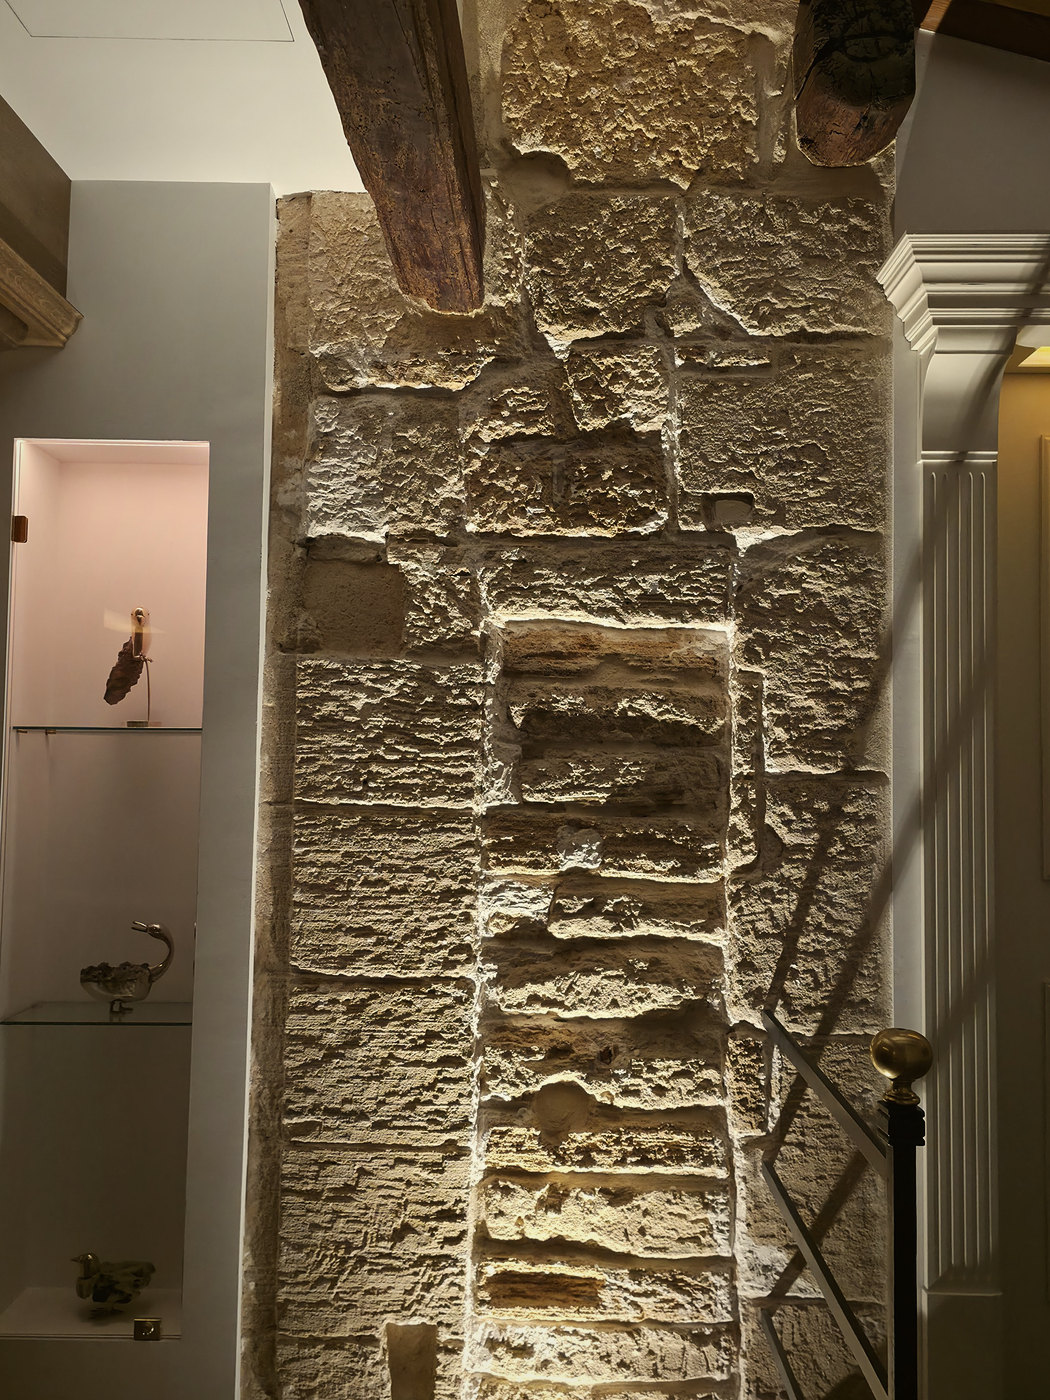
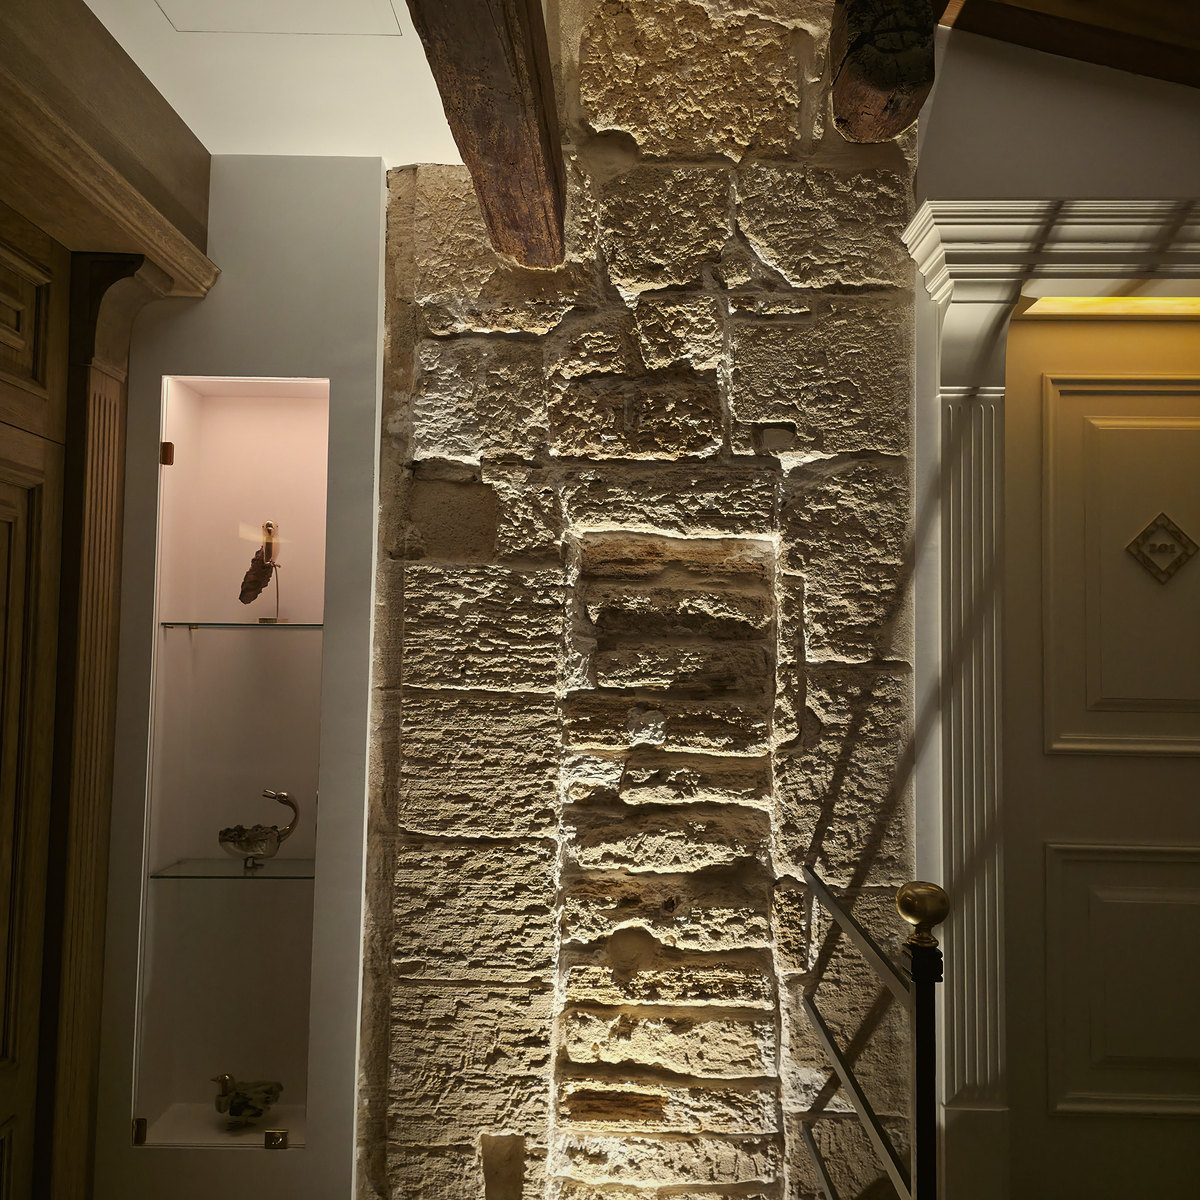
style: The House detail rows — all photos square 1:1 (PC and mobile), re-exported full-frame

diff --git a/the-house.html b/the-house.html
@@ -12,7 +12,7 @@
 <link rel="preconnect" href="https://fonts.googleapis.com">
 <link rel="preconnect" href="https://fonts.gstatic.com" crossorigin>
 <link rel="stylesheet" href="https://fonts.googleapis.com/css2?family=Cormorant+Garamond:wght@500;600;700&family=Karma:wght@300;400;500;600;700&family=Montserrat:wght@400;500;600&display=swap">
-<link rel="stylesheet" href="css/styles.css?v=72">
+<link rel="stylesheet" href="css/styles.css?v=73">
 <link rel="stylesheet" href="css/concierge.css?v=3">
 </head>
 <body>
@@ -57,11 +57,11 @@
     <a class="link-arrow" href="#details">Discover more →</a>
   </div>
   <div class="hx-media hist-grid hist-5">
-    <div class="imgframe"><img loading="lazy" decoding="async" src="img/house-hist-rosettes.jpg?v=e4f9986d" alt="A row of carved stone rosettes"></div>
-    <div class="hg-mid"><div class="imgframe"><img loading="lazy" decoding="async" src="img/house-hist-castle.jpg?v=f638ac41" alt="A castle carved in stone"></div><p class="hg-cap">Preserved,<br>not reinvented.</p></div>
-    <div class="imgframe"><img loading="lazy" decoding="async" src="img/house-hist-arms.jpg?v=2ce2c9b7" alt="A carved coat of arms"></div>
-    <div class="imgframe"><img loading="lazy" decoding="async" src="img/house-hist-mares.jpg?v=daa0409b" alt="An old marés stone wall"></div>
-    <div class="imgframe"><img loading="lazy" decoding="async" src="img/house-hist-bicycle.jpg?v=69578fdb" alt="An old wooden chest beneath a painting"></div>
+    <div class="imgframe"><img loading="lazy" decoding="async" src="img/house-hist-rosettes.jpg?v=1cde7bdf" alt="A row of carved stone rosettes"></div>
+    <div class="hg-mid"><div class="imgframe"><img loading="lazy" decoding="async" src="img/house-hist-castle.jpg?v=b9ef1c1e" alt="A castle carved in stone"></div><p class="hg-cap">Preserved,<br>not reinvented.</p></div>
+    <div class="imgframe"><img loading="lazy" decoding="async" src="img/house-hist-arms.jpg?v=ce755572" alt="A carved coat of arms"></div>
+    <div class="imgframe"><img loading="lazy" decoding="async" src="img/house-hist-mares.jpg?v=2b9765b8" alt="An old marés stone wall"></div>
+    <div class="imgframe"><img loading="lazy" decoding="async" src="img/house-hist-bicycle.jpg?v=7b85366e" alt="An old wooden chest beneath a painting"></div>
   </div>
 </section>
 
@@ -75,11 +75,11 @@
     <a class="link-arrow" href="#details">Discover the details →</a>
   </div>
   <div class="hx-media hx-grid g5">
-    <div class="item"><div class="imgframe "><img loading="lazy" decoding="async" src="img/house-material-santanyi.jpg?v=79acc08d" alt="A carved Santanyí stone capital"></div><div class="cap">Santanyí Stone</div><div class="ct">Carved into the house.</div></div>
-    <div class="item"><div class="imgframe "><img loading="lazy" decoding="async" src="img/house-material-stair.jpg?v=3d005684" alt="The staircase seen from above"></div><div class="cap">The Staircase</div><div class="ct">The way upstairs.</div></div>
-    <div class="item"><div class="imgframe "><img loading="lazy" decoding="async" src="img/house-material-mares.jpg?v=75574fb0" alt="A marés stone wall"></div><div class="cap">Marés</div><div class="ct">The texture of Mallorca.</div></div>
-    <div class="item"><div class="imgframe "><img loading="lazy" decoding="async" src="img/house-material-gilded.jpg?v=1944d32e" alt="A gilded mirror frame"></div><div class="cap">Gilded Wood</div><div class="ct">Time, preserved.</div></div>
-    <div class="item"><div class="imgframe "><img loading="lazy" decoding="async" src="img/house-material-carving.jpg?v=4286e8b1" alt="Carved stone flowers"></div><div class="cap">Stone Carving</div><div class="ct">Patterns with a past.</div></div>
+    <div class="item"><div class="imgframe "><img loading="lazy" decoding="async" src="img/house-material-santanyi.jpg?v=c05bd51e" alt="A carved Santanyí stone capital"></div><div class="cap">Santanyí Stone</div><div class="ct">Carved into the house.</div></div>
+    <div class="item"><div class="imgframe "><img loading="lazy" decoding="async" src="img/house-material-stair.jpg?v=52209028" alt="The staircase seen from above"></div><div class="cap">The Staircase</div><div class="ct">The way upstairs.</div></div>
+    <div class="item"><div class="imgframe "><img loading="lazy" decoding="async" src="img/house-material-mares.jpg?v=4ba149e6" alt="A marés stone wall"></div><div class="cap">Marés</div><div class="ct">The texture of Mallorca.</div></div>
+    <div class="item"><div class="imgframe "><img loading="lazy" decoding="async" src="img/house-material-gilded.jpg?v=09e180a1" alt="A gilded mirror frame"></div><div class="cap">Gilded Wood</div><div class="ct">Time, preserved.</div></div>
+    <div class="item"><div class="imgframe "><img loading="lazy" decoding="async" src="img/house-material-carving.jpg?v=6908b90d" alt="Carved stone flowers"></div><div class="cap">Stone Carving</div><div class="ct">Patterns with a past.</div></div>
   </div>
 </section>
 

diff --git a/css/styles.css b/css/styles.css
@@ -1610,3 +1610,12 @@ html,body{overflow-x:clip}                       /* el menú móvil fuera de pan
   .hist-grid.hist-5 .hg-mid .hg-cap{position:relative;z-index:1;color:var(--cream);margin:0 0 12px 12px}
   .hist-grid.hist-5 .hg-mid .imgframe::after{content:"";position:absolute;inset:0;background:linear-gradient(180deg,rgba(30,20,12,0) 45%,rgba(30,20,12,.62) 100%)}
 }
+/* The House · "Look closely" y "History, still alive": todas las fotos cuadradas 1:1 */
+.hx-grid.g5 .imgframe{aspect-ratio:1/1!important;height:auto!important}
+.hist-grid.hist-5{grid-template-columns:repeat(5,minmax(0,1fr))!important;height:auto!important;align-items:start}
+.hist-grid.hist-5 > .imgframe,.hist-grid.hist-5 .hg-mid{aspect-ratio:1/1!important;height:auto!important}
+@media (max-width:900px){
+  .hist-grid.hist-5{grid-template-columns:1fr 1fr!important}
+  .hist-grid.hist-5 > :first-child{grid-column:1/-1;aspect-ratio:1/1!important}
+}
+@media (max-width:900px){ .hist-grid.hist-5 > .imgframe:not(:first-child),.hist-grid.hist-5 > .hg-mid{aspect-ratio:1/1!important} }

diff --git a/palma-48-hours.html b/palma-48-hours.html
@@ -12,7 +12,7 @@
 <link rel="preconnect" href="https://fonts.googleapis.com">
 <link rel="preconnect" href="https://fonts.gstatic.com" crossorigin>
 <link rel="stylesheet" href="https://fonts.googleapis.com/css2?family=Cormorant+Garamond:wght@500;600;700&family=Karma:wght@300;400;500;600;700&family=Montserrat:wght@400;500;600&display=swap">
-<link rel="stylesheet" href="css/styles.css?v=72">
+<link rel="stylesheet" href="css/styles.css?v=73">
 <link rel="stylesheet" href="css/palma-guide.css?v=5">
 <link rel="stylesheet" href="https://fonts.googleapis.com/css2?family=La+Belle+Aurore&display=swap">
 <link rel="stylesheet" href="https://cdnjs.cloudflare.com/ajax/libs/leaflet/1.9.4/leaflet.min.css">

diff --git a/palma-first-day.html b/palma-first-day.html
@@ -12,7 +12,7 @@
 <link rel="preconnect" href="https://fonts.googleapis.com">
 <link rel="preconnect" href="https://fonts.gstatic.com" crossorigin>
 <link rel="stylesheet" href="https://fonts.googleapis.com/css2?family=Cormorant+Garamond:wght@500;600;700&family=Karma:wght@300;400;500;600;700&family=Montserrat:wght@400;500;600&display=swap">
-<link rel="stylesheet" href="css/styles.css?v=72">
+<link rel="stylesheet" href="css/styles.css?v=73">
 <link rel="stylesheet" href="css/palma-guide.css?v=5">
 <link rel="stylesheet" href="https://fonts.googleapis.com/css2?family=La+Belle+Aurore&display=swap">
 <link rel="stylesheet" href="https://cdnjs.cloudflare.com/ajax/libs/leaflet/1.9.4/leaflet.min.css">

diff --git a/index.html b/index.html
@@ -14,7 +14,7 @@
 <link rel="preconnect" href="https://fonts.googleapis.com">
 <link rel="preconnect" href="https://fonts.gstatic.com" crossorigin>
 <link rel="stylesheet" href="https://fonts.googleapis.com/css2?family=Cormorant+Garamond:wght@500;600;700&family=Karma:wght@300;400;500;600;700&family=Montserrat:wght@400;500;600&display=swap">
-<link rel="stylesheet" href="css/styles.css?v=72">
+<link rel="stylesheet" href="css/styles.css?v=73">
 <link rel="stylesheet" href="css/concierge.css?v=3">
 <meta property="og:type" content="website">
 <meta property="og:site_name" content="Glòria de Sant Jaume">

diff --git a/experiences.html b/experiences.html
@@ -12,7 +12,7 @@
 <link rel="preconnect" href="https://fonts.googleapis.com">
 <link rel="preconnect" href="https://fonts.gstatic.com" crossorigin>
 <link rel="stylesheet" href="https://fonts.googleapis.com/css2?family=Cormorant+Garamond:wght@500;600;700&family=Karma:wght@300;400;500;600;700&family=Montserrat:wght@400;500;600&display=swap">
-<link rel="stylesheet" href="css/styles.css?v=72">
+<link rel="stylesheet" href="css/styles.css?v=73">
 <link rel="stylesheet" href="css/concierge.css?v=3">
 <style>
   .exp-hero{position:relative;min-height:74vh;display:flex;align-items:center;color:var(--cream);

diff --git a/careers.html b/careers.html
@@ -12,7 +12,7 @@
 <link rel="preconnect" href="https://fonts.googleapis.com">
 <link rel="preconnect" href="https://fonts.gstatic.com" crossorigin>
 <link rel="stylesheet" href="https://fonts.googleapis.com/css2?family=Cormorant+Garamond:wght@500;600;700&family=Karma:wght@300;400;500;600;700&family=Montserrat:wght@400;500;600&display=swap">
-<link rel="stylesheet" href="css/styles.css?v=72">
+<link rel="stylesheet" href="css/styles.css?v=73">
 <link rel="stylesheet" href="css/concierge.css?v=3">
 <link rel="stylesheet" href="css/legal.css?v=4">
 <link rel="stylesheet" href="css/careers.css?v=1">

diff --git a/palma.html b/palma.html
@@ -12,7 +12,7 @@
 <link rel="preconnect" href="https://fonts.googleapis.com">
 <link rel="preconnect" href="https://fonts.gstatic.com" crossorigin>
 <link rel="stylesheet" href="https://fonts.googleapis.com/css2?family=Cormorant+Garamond:wght@500;600;700&family=Karma:wght@300;400;500;600;700&family=Montserrat:wght@400;500;600&display=swap">
-<link rel="stylesheet" href="css/styles.css?v=72">
+<link rel="stylesheet" href="css/styles.css?v=73">
 <link rel="stylesheet" href="css/palma-guide.css?v=5">
 <link rel="stylesheet" href="css/concierge.css?v=3">
 </head>

diff --git a/cookies.html b/cookies.html
@@ -12,7 +12,7 @@
 <link rel="preconnect" href="https://fonts.googleapis.com">
 <link rel="preconnect" href="https://fonts.gstatic.com" crossorigin>
 <link rel="stylesheet" href="https://fonts.googleapis.com/css2?family=Cormorant+Garamond:wght@500;600;700&family=Karma:wght@300;400;500;600;700&family=Montserrat:wght@400;500;600&display=swap">
-<link rel="stylesheet" href="css/styles.css?v=72">
+<link rel="stylesheet" href="css/styles.css?v=73">
 <link rel="stylesheet" href="css/concierge.css?v=3">
 <link rel="stylesheet" href="css/legal.css?v=4">
 </head>

diff --git a/legal.html b/legal.html
@@ -12,7 +12,7 @@
 <link rel="preconnect" href="https://fonts.googleapis.com">
 <link rel="preconnect" href="https://fonts.gstatic.com" crossorigin>
 <link rel="stylesheet" href="https://fonts.googleapis.com/css2?family=Cormorant+Garamond:wght@500;600;700&family=Karma:wght@300;400;500;600;700&family=Montserrat:wght@400;500;600&display=swap">
-<link rel="stylesheet" href="css/styles.css?v=72">
+<link rel="stylesheet" href="css/styles.css?v=73">
 <link rel="stylesheet" href="css/concierge.css?v=3">
 <link rel="stylesheet" href="css/legal.css?v=4">
 </head>

diff --git a/privacy.html b/privacy.html
@@ -12,7 +12,7 @@
 <link rel="preconnect" href="https://fonts.googleapis.com">
 <link rel="preconnect" href="https://fonts.gstatic.com" crossorigin>
 <link rel="stylesheet" href="https://fonts.googleapis.com/css2?family=Cormorant+Garamond:wght@500;600;700&family=Karma:wght@300;400;500;600;700&family=Montserrat:wght@400;500;600&display=swap">
-<link rel="stylesheet" href="css/styles.css?v=72">
+<link rel="stylesheet" href="css/styles.css?v=73">
 <link rel="stylesheet" href="css/concierge.css?v=3">
 <link rel="stylesheet" href="css/legal.css?v=4">
 </head>

diff --git a/el-patio.html b/el-patio.html
@@ -12,7 +12,7 @@
 <link rel="preconnect" href="https://fonts.googleapis.com">
 <link rel="preconnect" href="https://fonts.gstatic.com" crossorigin>
 <link rel="stylesheet" href="https://fonts.googleapis.com/css2?family=Cormorant+Garamond:wght@500;600;700&family=Karma:wght@300;400;500;600;700&family=Montserrat:wght@400;500;600&display=swap">
-<link rel="stylesheet" href="css/styles.css?v=72">
+<link rel="stylesheet" href="css/styles.css?v=73">
 <link rel="stylesheet" href="css/concierge.css?v=3">
 </head>
 <body>
